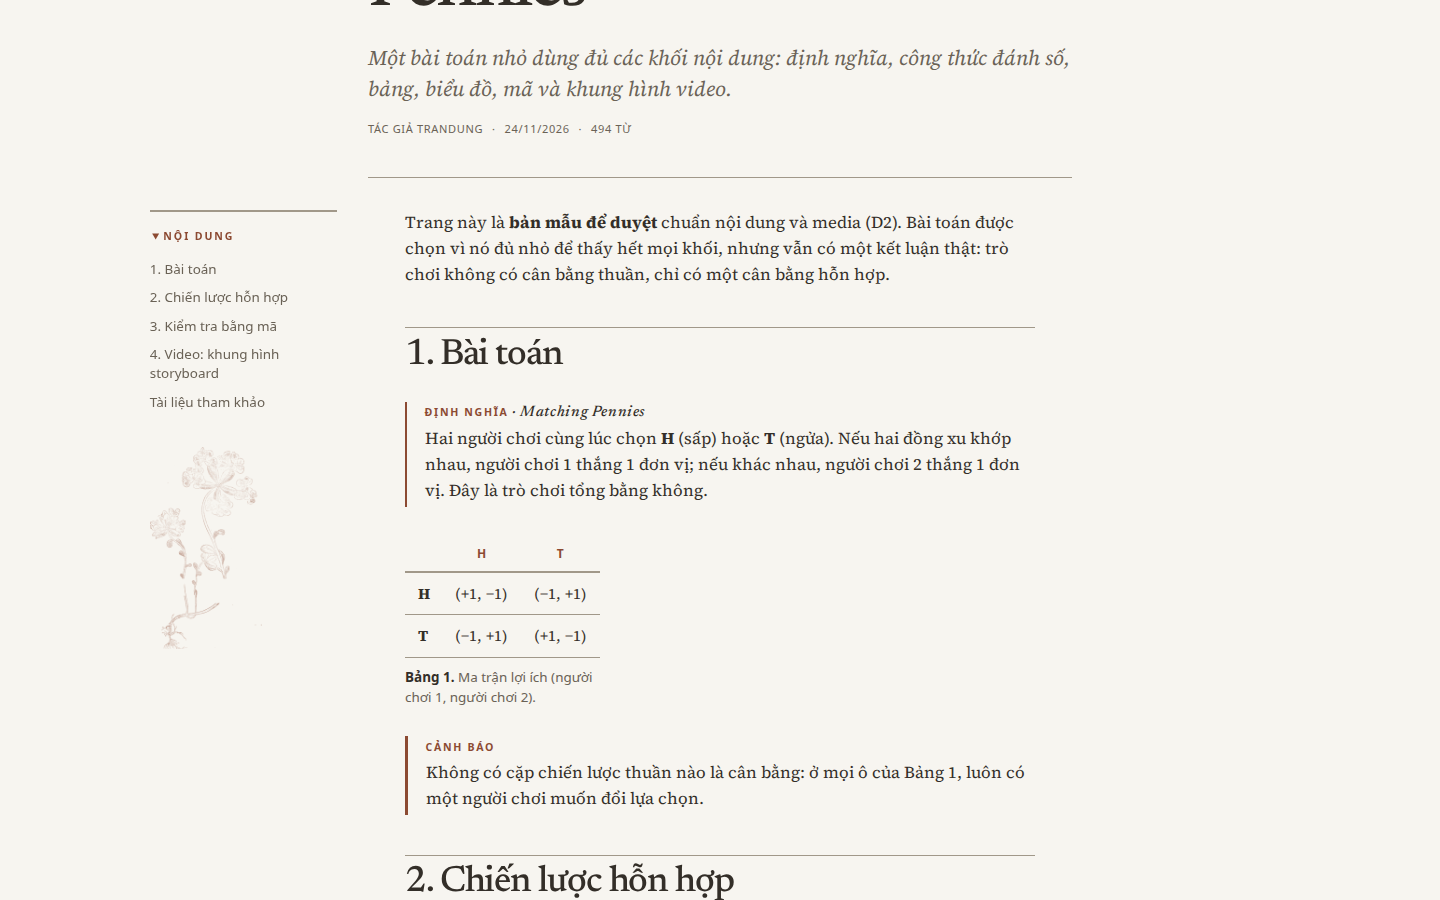
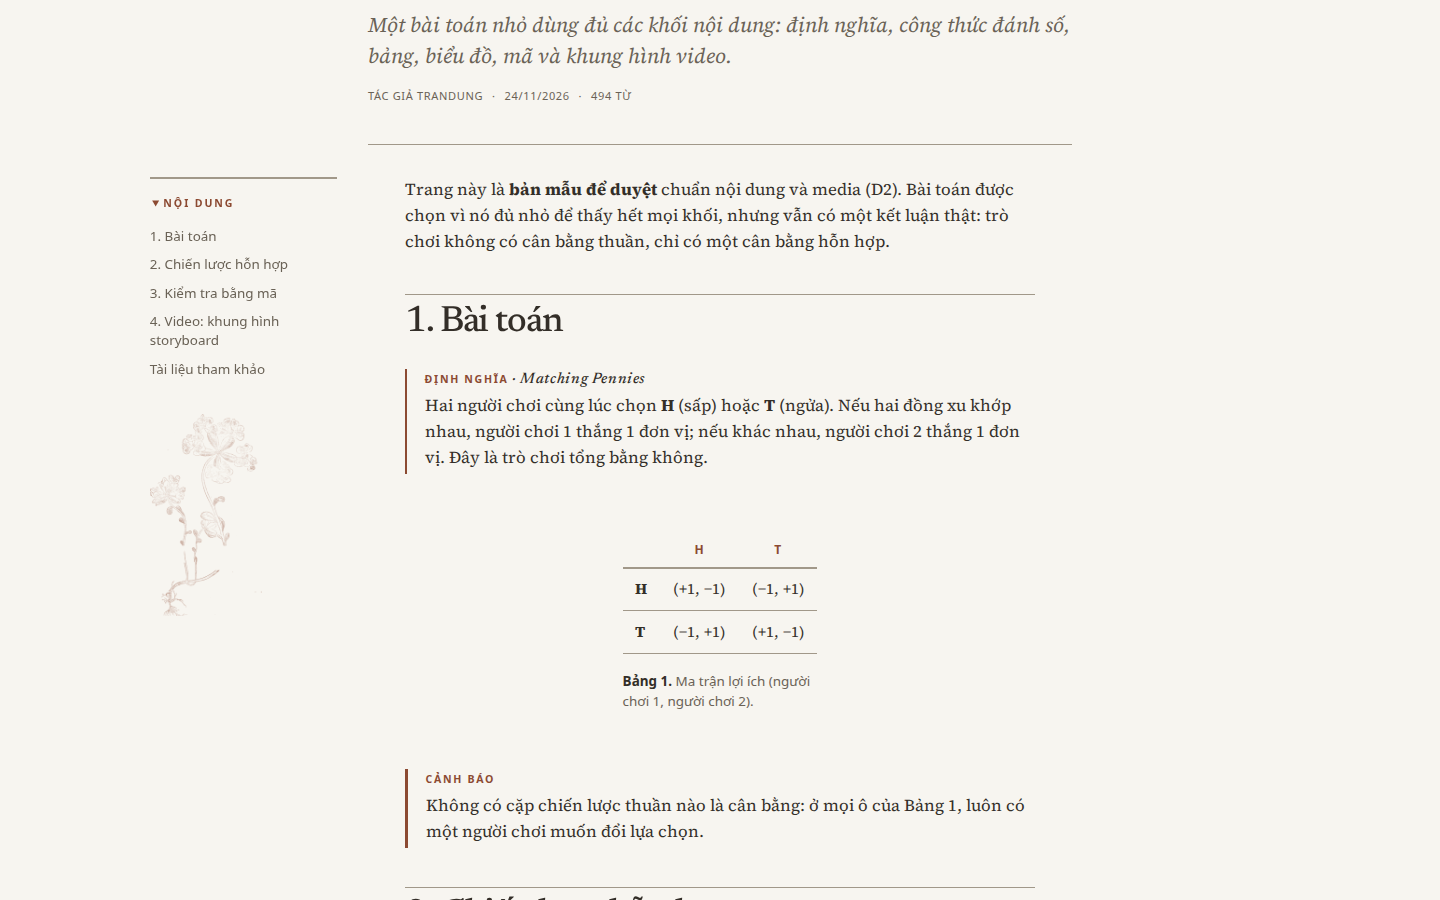
docs(d2): centre numbered tables (owner review)

diff --git a/docs/phases/phase-4/d2/prototype/assets/css/editorial/d2.css b/docs/phases/phase-4/d2/prototype/assets/css/editorial/d2.css
@@ -17,11 +17,14 @@
 /* Figures and numbered tables. */
 .prose .plot-figure { margin: 2rem auto; max-width: 30rem; }
 .prose .plot-svg { display: block; width: 100%; height: auto; }
-.prose .plot-figure figcaption, .prose .table-figure caption { margin-top: 0.6rem; font: 400 0.84rem/1.5 var(--ed-sans); color: var(--ed-muted); text-align: left; caption-side: bottom; }
+.prose .plot-figure figcaption, .prose .table-figure caption { margin-top: 0.6rem; padding-top: 0.5rem; font: 400 0.84rem/1.5 var(--ed-sans); color: var(--ed-muted); text-align: left; caption-side: bottom; }
 .prose .fig-label { font-weight: 700; color: var(--ed-fg); }
+.prose .table-figure caption { text-align: center; }
 .prose .fig-source { display: block; font-size: 0.78rem; }
-.prose .table-figure { margin: 1.8rem 0; }
-.prose .table-figure table { margin-inline: auto; }
+.prose .table-figure { margin: 1.8rem 0; overflow-x: auto; }
+/* Centred (owner, 2026-11-24): the wrapper scrolls on narrow screens, so the table itself can be
+   a real, content-sized table in the middle of the measure instead of D1's full-width block. */
+.d1-article .prose .table-figure table { display: table; width: auto; max-width: none; margin-inline: auto; }
 .prose .plot-figure:target, .prose .table-figure:target { outline: 2px solid color-mix(in srgb, var(--ed-accent) 35%, transparent); outline-offset: 0.6rem; }
 /* Numbered display equations: MathJax AMS tags, accent-coloured, aligned with the measure. */
 .prose mjx-container[display="true"] mjx-mtd[id^="mjx-eqn"], .prose mjx-labels { color: var(--ed-muted); }

diff --git a/docs/phases/phase-4/d2/DESIGN_SPEC.md b/docs/phases/phase-4/d2/DESIGN_SPEC.md
@@ -12,7 +12,7 @@ The example is one real problem, Matching Pennies, worked through with every blo
   - Theorem text is italic.
   - Note and example are quieter (grey rule).
   - Warning has a heavier rule.
-- **Numbered tables:** `{{< table caption="…" >}}` wraps a Markdown table and adds a real `<caption>` "Bảng n." that is announced with the table.
+- **Numbered tables:** `{{< table caption="…" >}}` wraps a Markdown table and adds a real `<caption>` "Bảng n." that is announced with the table. The table is centred in the measure (owner, 2026-11-24); its wrapper scrolls on narrow screens.
 - **Code:** the existing block (language label, copy button, line numbers). Unchanged.
 - Paragraphs, quotes and lists are unchanged (Phase 2/D1). D3 notes and citations work inside every block.
 
